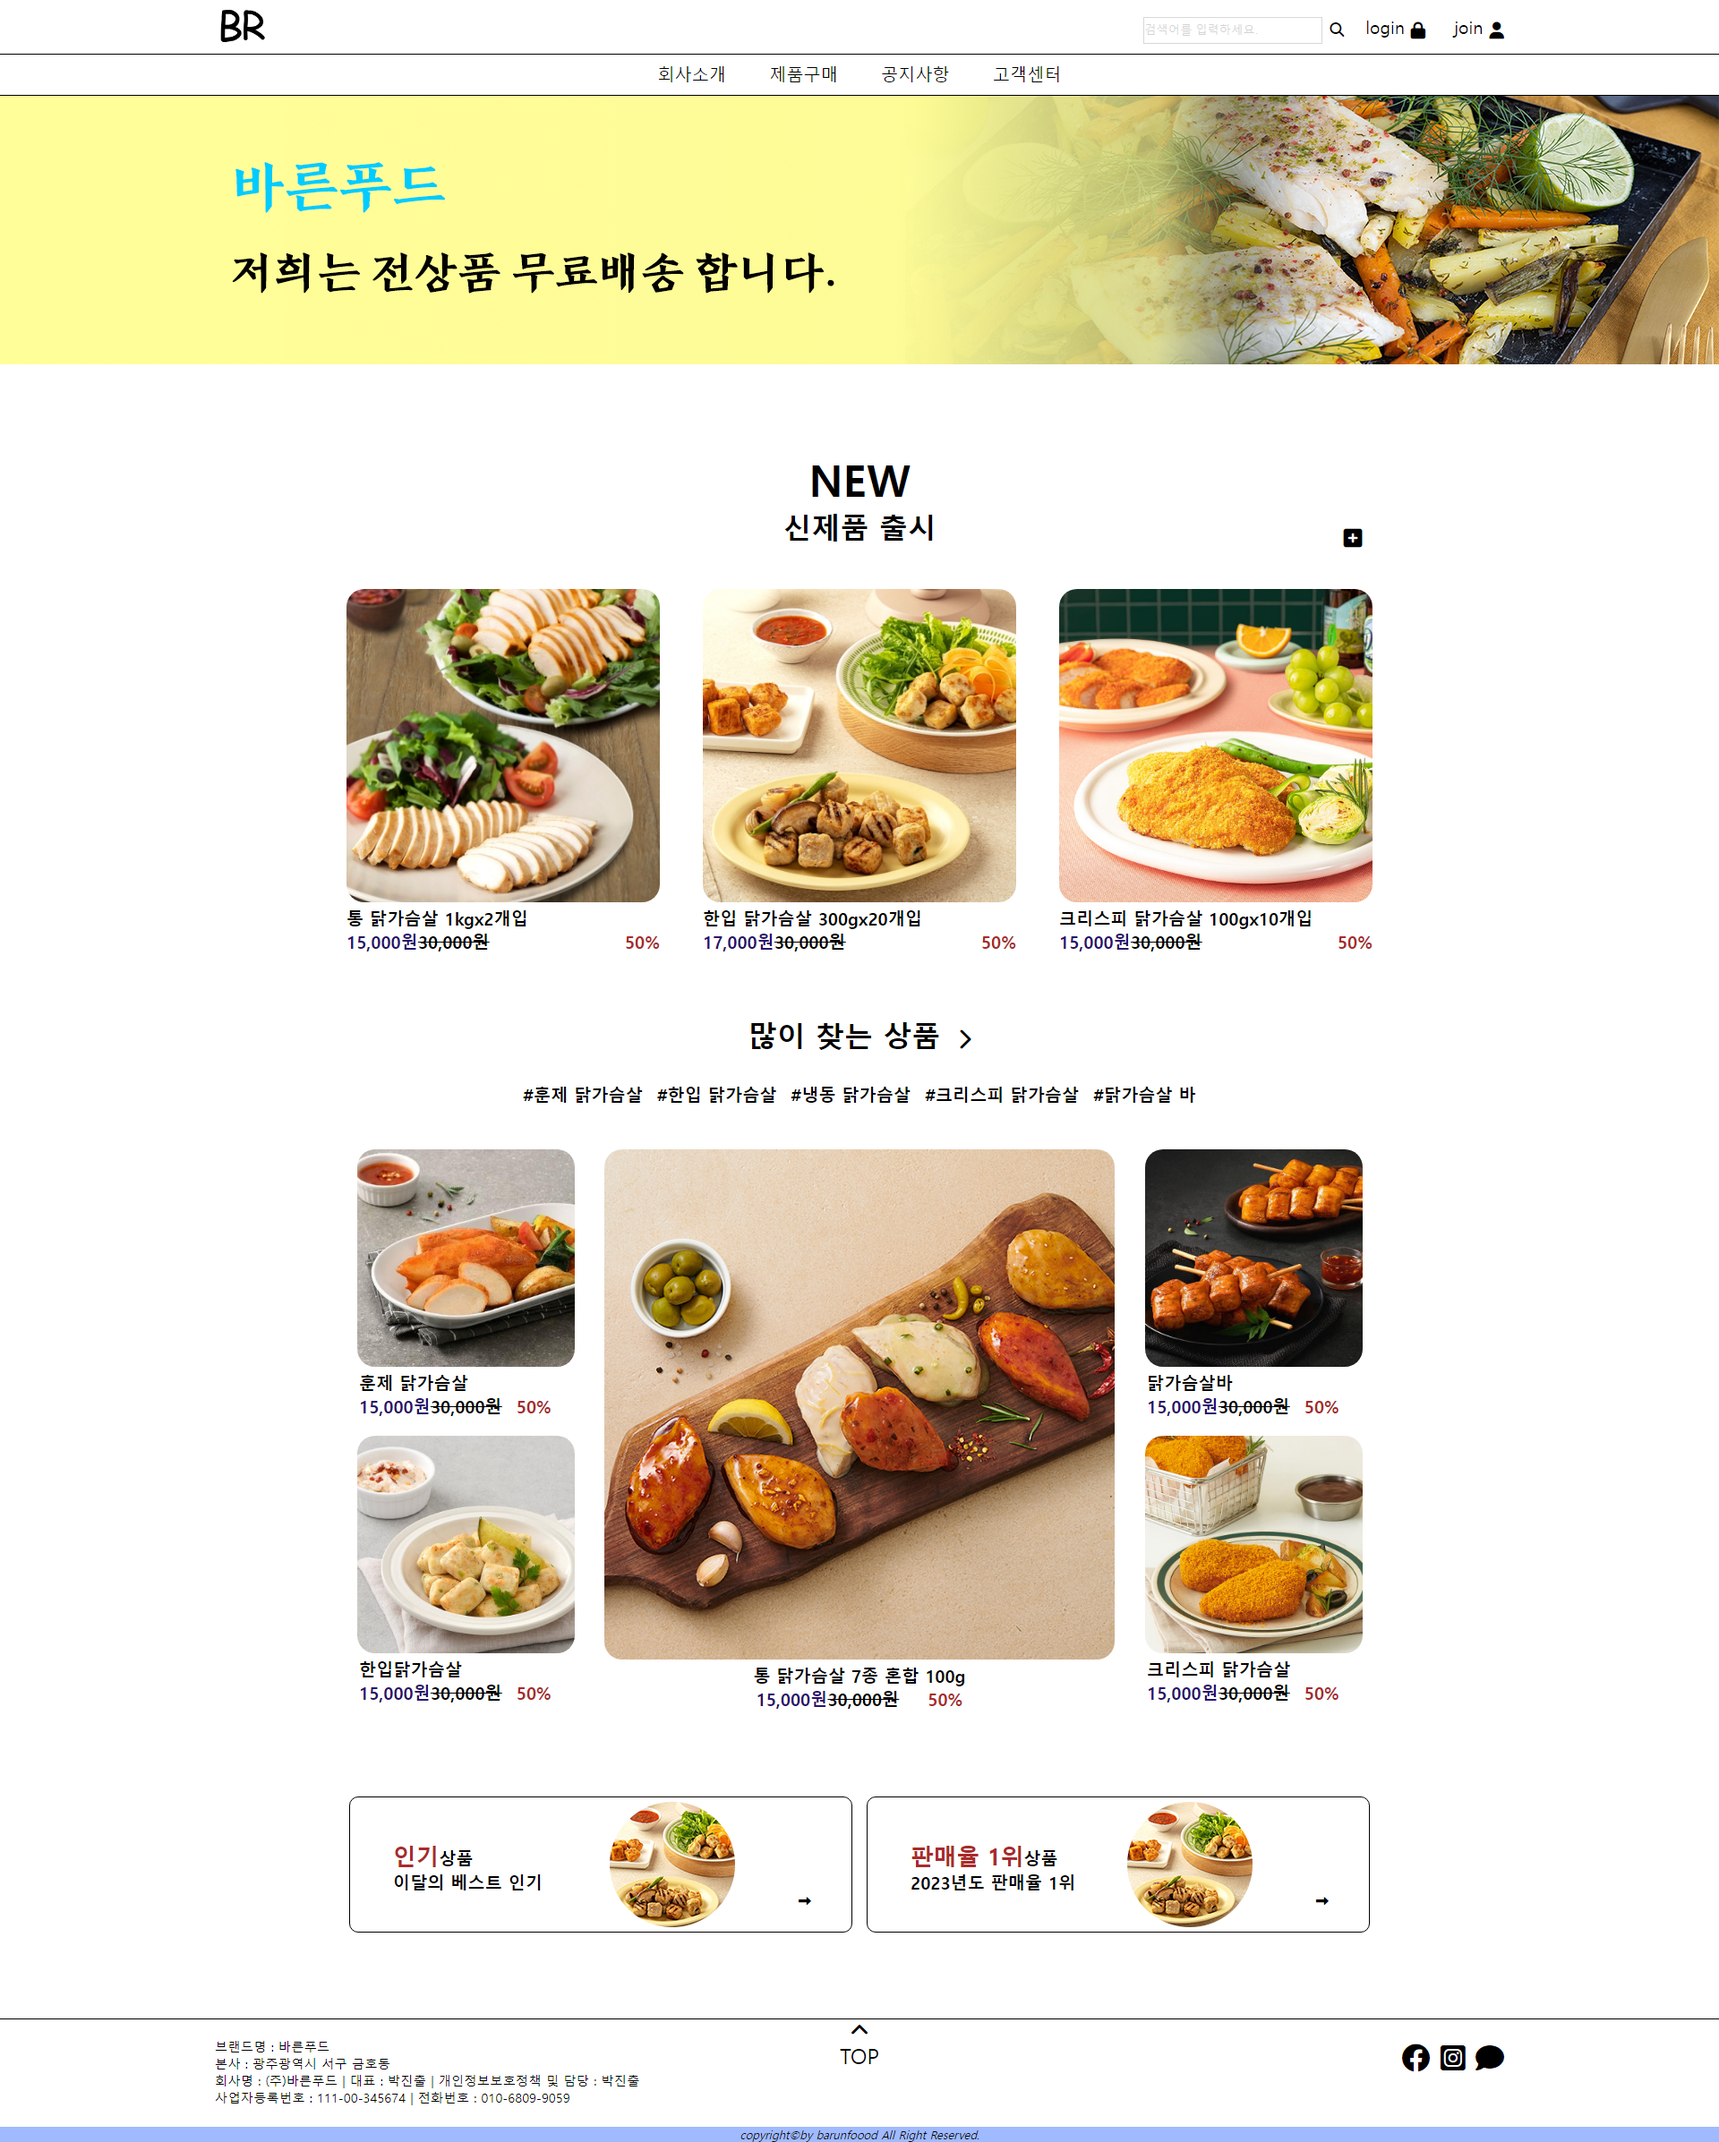
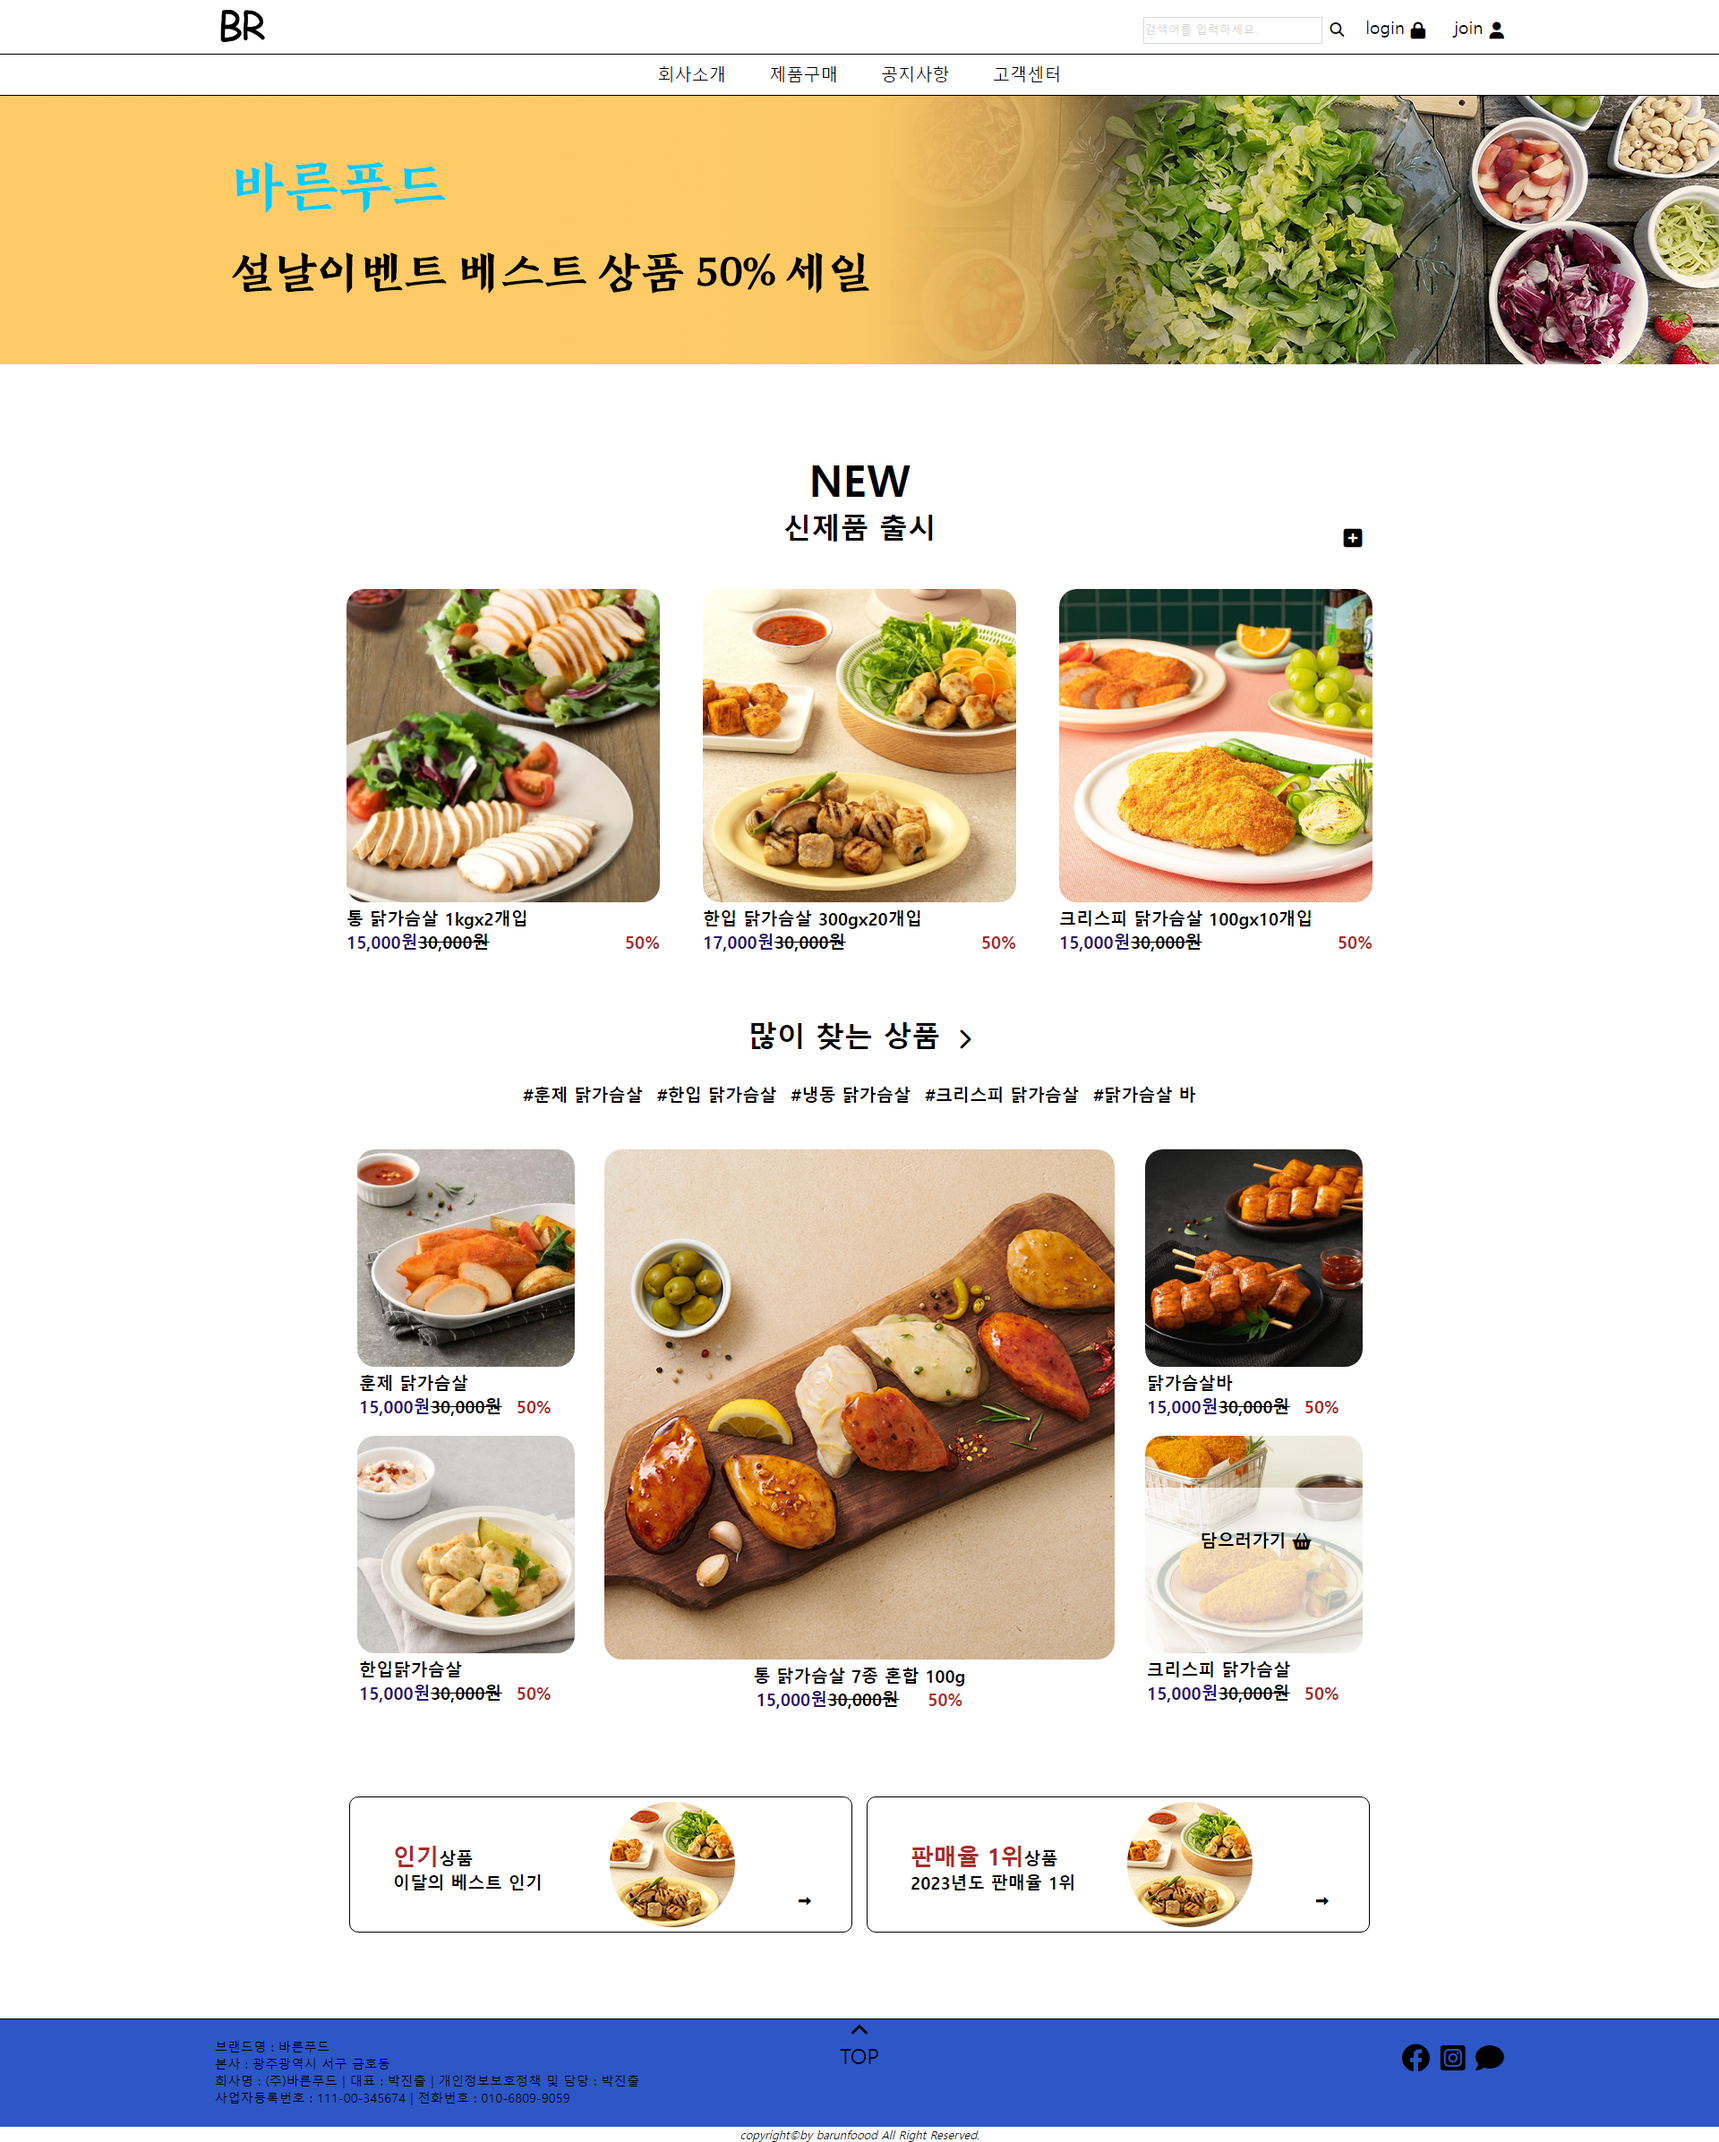
모바일 버전 메인,서브 카테고리 영역 수정 및 팝업에 이미지 추가

Changed region(s): [[0.0, 0.0309, 1.0, 0.1855], [0.0, 0.9277, 1.0, 1.0], [0.6562, 0.6803, 0.8125, 0.7731]]

diff --git a/css/sub.css b/css/sub.css
@@ -73,7 +73,7 @@
 }
 
 .c-title li:hover {
-    background: rgb(160, 186, 255);
+    background: rgb(45, 86, 199);
     color: white;
 }
 
@@ -103,19 +103,16 @@
     position: relative;
     margin: .5rem 0;
     font-size: 1rem;
-    border: 1px solid black;
-    border-radius: 20px;
 }
 
-.c-body1 li:hover,
-.c-body2 li:hover,
-.c-body3 li:hover,
-.c-body4 li:hover,
-.c-body5 li:hover,
-.c-body6 li:hover,
-.c-body7 li:hover {
-    background: rgb(160, 186, 255);
-    color: white;
+.c-body1 li:hover img,
+.c-body2 li:hover img,
+.c-body3 li:hover img,
+.c-body4 li:hover img,
+.c-body5 li:hover img,
+.c-body6 li:hover img,
+.c-body7 li:hover img {
+    opacity: 30%;
 }
 
 .c-body1 li img,
@@ -126,7 +123,6 @@
 .c-body6 li img,
 .c-body7 li img {
     border-radius: 20px;
-    padding: 5px 0;
 }
 
 .c-body1 li p,
@@ -147,14 +143,25 @@
 .c-body5 button,
 .c-body6 button,
 .c-body7 button {
+    display: none;
     position: absolute;
-    bottom: 3%;
-    right: 3%;
+    top: 30%;
+    right: 35%;
     border: 0;
     border-radius: 30px;
     background: white;
     border: 1px solid black;
-    padding: .5rem;
+    padding: 1rem;
+}
+
+.c-body1 li:hover button,
+.c-body2 li:hover button,
+.c-body3 li:hover button,
+.c-body4 li:hover button,
+.c-body5 li:hover button,
+.c-body6 li:hover button,
+.c-body7 li:hover button {
+    display: block;
 }
 
 .c-body1 button:hover,
@@ -164,10 +171,7 @@
 .c-body5 button:hover,
 .c-body6 button:hover,
 .c-body7 button:hover {
-    background: rgb(160, 186, 255);
-    color: white;
-    border: 1px solid black;
-    padding: 0.5rem;
+    font-size: 1rem;
 }
 
 /*---media query-------*/

diff --git a/css/main.css b/css/main.css
@@ -7,12 +7,12 @@
     text-align: center;
     background: white;
     border: 1px solid black;
-    box-shadow: 10px 5px 5px;
+    box-shadow: 3px 3px 3px 3px;
     position: absolute;
     width: 1000px;
     height: 750px;
-    top: 20%;
-    left: 25%;
+    top: 0%;
+    left: 0%;
     line-height: 50px;
     z-index: 999;
 }
@@ -93,7 +93,7 @@
 }
 
 #new button:hover i {
-    color: rgb(160, 186, 255);
+    color: rgb(45, 86, 199);
     border-top: 1px solid black;
 }
 
@@ -198,7 +198,7 @@
 }
 
 .f-r {
-    background: rgb(160, 186, 255);
+    background: rgb(45, 86, 199);
     border-radius: 20px;
     width: 730px;
     height: 500px;
@@ -243,6 +243,52 @@
 
 /*---media query-------*/
 @media all and (max-width: 500px) {
+    /* popup */
+    .popup {
+        width: 60%;
+        height: 100%;
+        line-height: 25px;
+        box-shadow: 1px 1px 3px 3px;
+        left: 0;
+        top: 0;
+    }
+
+    .popup h1 {
+        font-size: 1rem;
+    }
+
+    .popup h2 {
+        font-size: .8rem;
+    }
+
+    .notice {
+        display: none;
+    }
+
+    .m-notice {
+        display: block;
+        font-size: .7rem;
+    }
+
+    .popup ul li img:nth-child(2) {
+        display: none;
+    }
+
+    .popup ul li img:nth-child(3) {
+        display: block;
+        width: 100%;
+    }
+
+    .p-close {
+        font-size: .8rem;
+        padding: .3rem;
+    }
+
+    .popup li:hover .see {
+        font-size: .7rem;
+    }
+
+
     /* new */
     #new {
         height: 750px;

diff --git a/main.html b/main.html
@@ -14,16 +14,19 @@
     <div class="popup">
         <h1> <공지> </h1>
         <h2>바른푸드 홈페이지 구축</h2>
-        <p>한울 바른푸드에서 처음으로 다음과 같이 홈페이지를 구축하였습니다</p>
+        <p class="notice">한울 바른푸드에서 처음으로 다음과 같이 홈페이지를 구축하였습니다</p>
+        <p class="m-notice d-none">모바일버전도 PC버전과 함께 구축되었습니다</p>
         <ul class="d-flex j-center g3">
             <li>
                 <p>main</p>
                 <img src="images/mainsite.png" alt="main">
+                <img src="images/m-main.png" alt="m-main" class="d-none">
                 <p class="see d-none">크게보기 <i class="fa-solid fa-eye"></i></p>
             </li>
             <li>
                 <p>sub</p>
                 <img src="images/subsite.png" alt="sub">
+                <img src="images/m-sub.png" alt="m-sub" class="d-none">
                 <p class="see d-none">크게보기 <i class="fa-solid fa-eye"></i></p>
             </li>
         </ul>

diff --git a/css/common.css b/css/common.css
@@ -107,7 +107,7 @@ hr {
 }
 
 .header a:hover {
-    color: rgb(160, 186, 255);
+    color: rgb(45, 86, 199);
 }
 
 .header i {
@@ -151,7 +151,7 @@ hr {
 }
 
 .nav li:hover a {
-    border-bottom: 3px solid rgb(160, 186, 255);
+    border-bottom: 3px solid rgb(45, 86, 199);;
 }
 
 /* carousel */
@@ -164,6 +164,7 @@ hr {
 /* footer */
 footer {
     border-top: 1px solid black;
+    background:  rgb(45, 86, 199);
 }
 
 .footer {
@@ -191,7 +192,7 @@ footer {
 .copy {
     font-size: .8rem;
     font-style: italic;
-    background: rgb(160, 186, 255);
+    background: white;
 }
 
 
